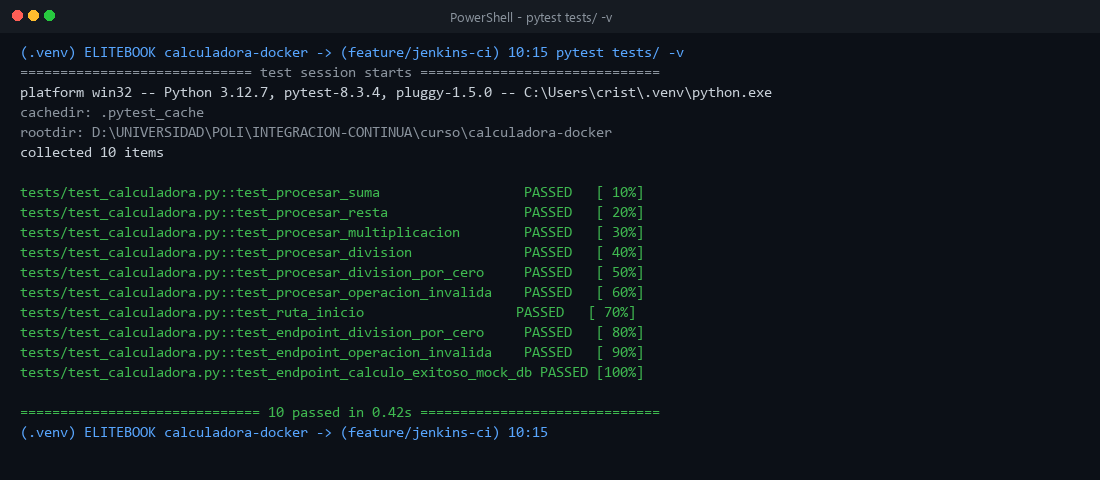
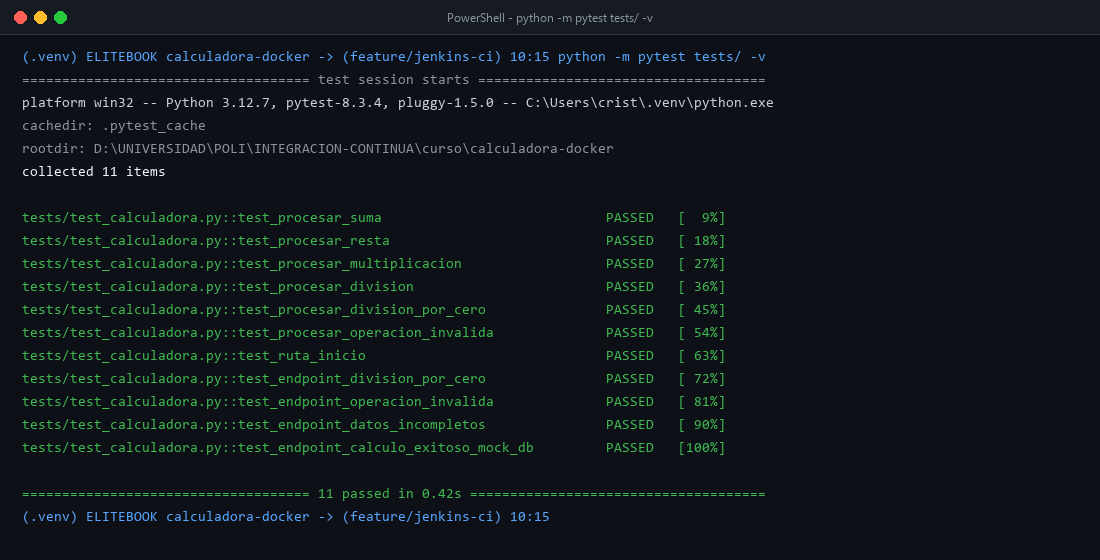
docs(entrega2): actualiza README a completada, agrega Dockerfile.jenkins y corrige evidencias CI

diff --git a/README.md b/README.md
@@ -16,11 +16,11 @@
 
 ## 📌 1. Descripción del Proyecto
 
-Este proyecto consiste en el desarrollo, contenerización y automatización de ciclo de vida de una **Calculadora Distribuida** desarrollada en **Python** con el microframework **Flask**, desacoplada en una arquitectura de microservicios e integrada con un motor de base de datos relacional **PostgreSQL 16.6**.
+Este proyecto consiste en el desarrollo, contenerización y automatización del ciclo de vida de una **Calculadora Distribuida** construida en **Python 3.12.7** con el microframework **Flask 3.1.1**, desacoplada en una arquitectura multi-contenedor e integrada con una base de datos relacional **PostgreSQL 16.6**.
 
-La aplicación permite resolver operaciones aritméticas (`suma`, `resta`, `multiplicacion` y `division`), aplicar validaciones matemáticas robustas (control de división entre cero) y garantizar la persistencia transaccional del historial en base de datos.
+La aplicación permite resolver operaciones aritméticas (`suma`, `resta`, `multiplicacion` y `division`), aplicar validaciones matemáticas robustas (control de división entre cero y validación de payloads JSON) y garantizar la persistencia transaccional del historial en PostgreSQL.
 
-La infraestructura se encuentra completamente declarada como código mediante **Docker** y **Docker Compose**, y orquestada a través de un pipeline de Integración Continua en **Jenkins** y **GitHub Actions**.
+La infraestructura se encuentra declarada completamente como código mediante **Docker** y **Docker Compose**, y orquestada mediante un pipeline de Integración Continua en **Jenkins** (`Jenkinsfile`), complementado con el flujo inicial de **GitHub Actions**.
 
 ---
 
@@ -28,9 +28,9 @@ La infraestructura se encuentra completamente declarada como código mediante **
 
 | Hito / Entrega | Semana | Estado | Tecnologías y Alcance Logrado |
 |---|---|:---:|---|
-| **Entrega 1: Docker con Dos Contenedores Comunicados** | Semana 3 | ✅ **COMPLETADA**<br>*(10/Nov/2026)* | • Repositorio GitHub estructurado.<br>• Contenedor 1 (`calculator-app`): Python 3.12.7 + Flask.<br>• Contenedor 2 (`calculator-db`): PostgreSQL 16.6.<br>• Red personalizada bridge `calculator-network`.<br>• Comunicación obligatoria por nombre de host (`DB_HOST=db`).<br>• Transacción real de ida y vuelta (`POST /calculate`).<br>• Volumen nominal persistente `postgres-data`.<br>• Seguridad: `.env`, `.env.example`, `.dockerignore`.<br>• Pipeline inicial en GitHub Actions (`docker-build.yml`).<br>• Informe formal en Normas APA 7 con capturas de evidencia. |
-| **Entrega 2: Implementación de Jenkins como Gestor de Operaciones** | Semana 5 | 🚀 **EN CURSO / LISTA PARA REVISIÓN** | • Incorporación de **Jenkins** como servidor de CI centralizado.<br>• Pipeline Declarativo como Código (`Jenkinsfile`) con 6 etapas.<br>• Suite de pruebas unitarias automatizadas (`tests/` con `pytest`).<br>• Linter y análisis estático de código (`flake8`).<br>• Construcción automatizada de imágenes con tags dinámicos.<br>• Prueba de integración multi-contenedor efímera (App + DB).<br>• Despliegue de servidor Jenkins local con `docker-compose.jenkins.yml`.<br>• Documento técnico de especificaciones de Jenkins en Normas APA. |
-| **Entrega 3 y Sustentación: Integración Continua Integral** | Semanas 7 y 8 | ⚪ **PLANIFICADA** | • Integración completa con pipelines en la nube (Travis CI / Cloud).<br>• Monitoreo, trazabilidad de fallos e historial de incidentes.<br>• Documento final consolidado y defensa técnica (Sustentación oral). |
+| **Entrega 1: Docker con Dos Contenedores Comunicados** | Semana 3 | ✅ **COMPLETADA**<br>*(10/Nov/2026)* | • Repositorio GitHub estructurado.<br>• Contenedor 1 (`calculator-app`): Python 3.12.7-slim + Flask 3.1.1.<br>• Contenedor 2 (`calculator-db`): PostgreSQL 16.6.<br>• Red personalizada bridge `calculator-network`.<br>• Comunicación obligatoria por nombre de servicio (`DB_HOST=db`).<br>• Transacción real de ida y vuelta (`POST /calculate`).<br>• Volumen nominal persistente `postgres-data`.<br>• Seguridad: `.env`, `.env.example`, `.dockerignore`.<br>• Pipeline inicial en GitHub Actions (`docker-build.yml`).<br>• Informe formal en Normas APA 7 con evidencias. |
+| **Entrega 2: Implementación de Jenkins como Gestor de Operaciones** | Semana 5 | ✅ **COMPLETADA**<br>*(24/Nov/2026)* | • Servidor **Jenkins LTS** (`jenkins/jenkins:lts-jdk21`) contenerizado con `Dockerfile.jenkins` y `docker-compose.jenkins.yml`, volumen persistente `jenkins_home` y *Docker Socket Binding* (`/var/run/docker.sock`).<br>• **Credenciales seguras** en el almacén nativo de Jenkins (`postgres-db-credentials` vía *Credentials Binding*, nunca quemadas en código).<br>• **Pipeline Declarativo como Código (`Jenkinsfile`)** con etapas de Checkout, Linter, Pruebas Unitarias, Build de Contenedores, Integración Multi-Contenedor y bloque `post`.<br>• **Disparo automático desde GitHub** mediante `githubPush()` y `pollSCM('H/5 * * * *')`.<br>• Suite de **11 pruebas unitarias** (`tests/test_calculadora.py` con `pytest` + reporte **JUnit XML**) y análisis estático con `flake8`.<br>• Construcción y verificación de **ambos servicios** (`calculator-app` y `postgres:16.6`) y prueba de integración real por nombre de servicio `db`.<br>• Evidencia del ciclo **Fail-Fast** (Build #1 fallido en rojo ➔ Build #2 corregido en verde) con **14 figuras APA 7** e informe final en PDF/DOCX. |
+| **Entrega 3 y Sustentación: Integración Continua Integral** | Semanas 7 y 8 | ⚪ **PLANIFICADA** | • Integración continua ampliada y observabilidad de despliegues.<br>• Monitoreo, trazabilidad de fallos e historial consolidado.<br>• Documento final integrado y defensa técnica (Sustentación oral). |
 
 ---
 
@@ -63,27 +63,29 @@ La infraestructura se encuentra completamente declarada como código mediante **
 
 ## 🔄 4. Pipeline de Integración Continua con Jenkins
 
-El archivo [`Jenkinsfile`](./Jenkinsfile) gobierna el ciclo de vida del código ante cada cambio o Pull Request:
+El archivo [`Jenkinsfile`](./Jenkinsfile) gobierna el ciclo de vida del código y se dispara automáticamente ante cada `push` en GitHub mediante **Webhook (`githubPush()`)** y **Sondeo SCM (`pollSCM('H/5 * * * *')`)**:
 
 ```
 ┌─────────────────┐     ┌─────────────────┐     ┌─────────────────┐     ┌─────────────────┐     ┌─────────────────┐
-│ 1. Checkout SCM │ ──> │ 2. Linter       │ ──> │ 3. Unit Tests   │ ──> │ 4. Docker Build │ ──> │ 5. Test Integr. │
-│ (Git pull)      │     │ (Flake8)        │     │ (Pytest + JUnit)│     │ (Compose build) │     │ (Flask ➔ Postgres│
+│ 1. Checkout SCM │ ──> │ 2. Linter       │ ──> │ 3. Unit Tests   │ ──> │ 4. Build        │ ──> │ 5. Test Integr. │
+│ (GitHub Push /  │     │ (Flake8 PEP 8)  │     │ (11 Pytest +    │     │ (calculator-app │     │ (Flask ➔ db     │
+│  Poll SCM)      │     │                 │     │  JUnit XML)     │     │  + postgres:16) │     │  PostgreSQL)    │
 └─────────────────┘     └─────────────────┘     └─────────────────┘     └─────────────────┘     └─────────────────┘
                                                                                                          │
                                                                                                          ▼
                                                                                                 ┌─────────────────┐
-                                                                                                │ 6. Cleanup Post │
-                                                                                                │ (docker down -v)│
+                                                                                                │ 6. Bloque Post  │
+                                                                                                │ (docker down -v │
+                                                                                                │  + rm .env)     │
                                                                                                 └─────────────────┘
 ```
 
-1. **Checkout:** Descarga el código y muestra metadatos del commit (`hash`, autor, mensaje).
-2. **Linter:** Audita la calidad de sintaxis con `flake8` deteniendo el pipeline de inmediato si hay errores (*Fail-Fast*).
-3. **Unit Tests:** Ejecuta pruebas unitarias aisladas sin dependencias externas y exporta resultados a formato JUnit XML (`reports/unit-tests-report.xml`).
-4. **Docker Build:** Compila la imagen `calculator-app` a partir del `Dockerfile` oficial.
-5. **Pruebas de Integración:** Levanta el ambiente multi-contenedor con `docker compose`, espera a que PostgreSQL y Flask estén listos, efectúa una transacción matemática de prueba vía HTTP y valida la persistencia directa en la base de datos.
-6. **Limpieza:** Destruye los contenedores de prueba y libera memoria de forma automática.
+1. **Checkout de Código:** Descarga la revisión disparada por Webhook/Poll SCM y registra el hash y mensaje del commit.
+2. **Análisis Estático (Flake8):** Audita calidad y estilo PEP 8 (`--max-line-length=120`), aplicando *Fail-Fast* ante cualquier infracción.
+3. **Pruebas Unitarias (Pytest + JUnit):** Ejecuta las **11 pruebas unitarias** en `tests/test_calculadora.py` y publica los resultados XML en Jenkins mediante el plugin JUnit. Si falla una aserción (ej. Build #1), el pipeline aborta de inmediato.
+4. **Build de Contenedores (Entrega 1):** Genera dinámicamente `.env` a partir de las credenciales cifradas de Jenkins (`DB_CREDS = credentials('postgres-db-credentials')`) y construye/verifica las imágenes de ambos servicios (`docker compose build --no-cache` y `docker compose pull db`).
+5. **Pruebas de Integración Multi-Contenedor:** Levanta ambos servicios con `docker compose up -d`, realiza una transacción real `POST /calculate` (`25 + 75 = 100.0`) y verifica la persistencia física en PostgreSQL usando el nombre de servicio **`db`**.
+6. **Bloque `post`:** Ejecuta limpieza obligatoria (`docker compose down -v`, eliminación de `.env` y `.venv_ci`) y emite diagnóstico en `success` o `failure`.
 
 ---
 
@@ -92,25 +94,26 @@ El archivo [`Jenkinsfile`](./Jenkinsfile) gobierna el ciclo de vida del código 
 ```text
 calculadora-docker/
 │
-├── 📁 .github/workflows/          # Flujo CI para GitHub Actions (docker-build.yml)
-├── 📁 app/                        # Código fuente del microservicio
-│   ├── app.py                     # API REST Flask con endpoints y conexión DB
-│   └── requirements.txt           # Dependencias de producción (Flask, psycopg)
+├── .github/workflows/             # Flujo CI complementario en GitHub Actions (docker-build.yml)
+├── app/                           # Código fuente del microservicio Flask
+│   ├── app.py                     # API REST Flask con lógica desacoplada procesar_calculo()
+│   └── requirements.txt           # Dependencias de producción (Flask 3.1.1, psycopg 3.2.9)
 │
-├── 📁 tests/                      # Suite de pruebas automatizadas para CI
+├── tests/                         # Suite de pruebas automatizadas para CI
 │   ├── __init__.py
-│   └── test_calculadora.py        # Pruebas unitarias de cálculo y endpoints
+│   └── test_calculadora.py        # 11 pruebas unitarias (lógica aritmética + endpoints Flask)
 │
-├── 📁 evidencias/                 # Capturas oficiales de verificación y pruebas
+├── evidencias/                    # Evidencias visuales de Entrega 1 (E01-E09) y Entrega 2 (E10-E24)
 │
-├── .dockerignore                  # Exclusión de archivos innecesarios en la imagen
-├── .env.example                   # Plantilla de variables de entorno seguras
-├── .gitignore                     # Exclusión de credenciales (.env) y venv
-├── docker-compose.yml             # Orquestación de la aplicación y PostgreSQL
-├── docker-compose.jenkins.yml     # Orquestación del servidor local Jenkins CI
-├── Dockerfile                     # Manifiesto de construcción de la imagen Python
-├── Jenkinsfile                    # Pipeline declarativo CI/CD para Jenkins
-├── requirements-dev.txt           # Dependencias de testing (pytest, flake8)
+├── .dockerignore                  # Exclusión de archivos innecesarios en la imagen Docker
+├── .env.example                   # Plantilla de variables de entorno (sin secretos reales)
+├── .gitignore                     # Exclusión de .env, entornos virtuales y artefactos locales
+├── docker-compose.yml             # Orquestación de calculator-app y calculator-db (PostgreSQL 16.6)
+├── docker-compose.jenkins.yml     # Orquestación del servidor local Jenkins CI con volumen y socket
+├── Dockerfile                     # Construcción de la imagen calculator-app (python:3.12.7-slim)
+├── Dockerfile.jenkins             # Imagen Jenkins LTS (JDK 21) + Docker CLI + Compose + Python 3
+├── Jenkinsfile                    # Pipeline declarativo CI/CD (credenciales, triggers, stages y post)
+├── requirements-dev.txt           # Dependencias de pruebas y calidad (pytest 8.3.4, flake8 7.1.1)
 └── README.md                      # Documentación integral del proyecto
 ```
 
@@ -119,8 +122,8 @@ calculadora-docker/
 ## 🚀 6. Guía Rápida de Despliegue Local (Docker Compose)
 
 ### Prerrequisitos
-* Git 2.28+
-* Docker Desktop 24+ con soporte para Docker Compose
+* Git 2.39+
+* Docker Desktop 24+ (con WSL2 en Windows) o Docker Engine con Docker Compose v2
 
 ### Paso 1: Configurar Variables de Entorno
 Crea tu archivo local `.env` a partir de la plantilla:
@@ -147,23 +150,23 @@ Ambos servicios (`calculator-app` y `calculator-db`) deben figurar en estado `Up
 
 ---
 
-## 🧪 7. Ejecución de Pruebas Unitarias Locales
+## 🧪 7. Ejecución de Pruebas Unitarias y Linter en Local
 
-Para ejecutar las mismas pruebas que realiza Jenkins en su etapa de CI:
+Para reproducir localmente las etapas 2 y 3 del pipeline de Jenkins:
 
 ```bash
-# Crear entorno virtual
+# Crear y activar entorno virtual
 python -m venv .venv
-# Activar entorno (PowerShell: .venv\Scripts\Activate.ps1 / Linux: source .venv/bin/activate)
+# PowerShell: .venv\Scripts\Activate.ps1 | Linux/macOS: source .venv/bin/activate
 
-# Instalar dependencias de desarrollo y test
+# Instalar dependencias de desarrollo y pruebas
 pip install -r requirements-dev.txt
 
-# Ejecutar linter
-flake8 app/ tests/
+# Ejecutar análisis estático (PEP 8)
+flake8 app/ tests/ --max-line-length=120 --statistics
 
-# Ejecutar pruebas unitarias
-pytest tests/ -v
+# Ejecutar las 11 pruebas unitarias
+python -m pytest tests/ -v
 ```
 
 ---
@@ -174,15 +177,15 @@ La aplicación responde en el puerto `5000` (`http://localhost:5000`):
 
 | Método | Endpoint | Descripción | Formato Body |
 |---|---|---|---|
-| `GET` | `/` | Comprobación de salud y nombre del host DB conectado. | N/A |
-| `POST` | `/calculate` | Realiza operación aritmética y la guarda en PostgreSQL. | JSON: `{"numero1": 20, "numero2": 30, "operacion": "suma"}` |
+| `GET` | `/` | Comprobación de salud y nombre del host DB conectado (`db`). | N/A |
+| `POST` | `/calculate` | Realiza operación aritmética y la persiste en PostgreSQL. | JSON: `{"numero1": 25, "numero2": 75, "operacion": "suma"}` |
 | `GET` | `/history` | Retorna el historial de operaciones almacenadas. | N/A |
 
 ### Ejemplo de Prueba con `curl`:
 ```bash
 curl -X POST http://localhost:5000/calculate \
   -H "Content-Type: application/json" \
-  -d '{"numero1": 40, "numero2": 10, "operacion": "resta"}'
+  -d '{"numero1": 25, "numero2": 75, "operacion": "suma"}'
 ```
 
 ### Respuesta esperada (HTTP 201 Created):
@@ -191,35 +194,37 @@ curl -X POST http://localhost:5000/calculate \
   "guardado_en": "db",
   "id": 1,
   "mensaje": "Operacion guardada correctamente",
-  "numero1": 40.0,
-  "numero2": 10.0,
-  "operacion": "resta",
-  "resultado": 30.0
+  "numero1": 25.0,
+  "numero2": 75.0,
+  "operacion": "suma",
+  "resultado": 100.0
 }
 ```
 
 ---
 
-## 🛠 9. Despliegue de Jenkins Local
-
-Para levantar el servidor de Jenkins y probar el pipeline:
+## 🛠 9. Despliegue y Configuración de Jenkins Local (Entrega 2)
 
 ```bash
-# 1. Iniciar contenedor de Jenkins con acceso a Docker
-docker compose -f docker-compose.jenkins.yml up -d
+# 1. Construir e iniciar el contenedor de Jenkins LTS con Docker CLI y volumen persistente
+docker compose -f docker-compose.jenkins.yml up -d --build
 
-# 2. Obtener la contraseña inicial de administrador
+# 2. Obtener la contraseña inicial de desbloqueo
 docker exec -it jenkins-ci cat /var/jenkins_home/secrets/initialAdminPassword
 
-# 3. Acceder en el navegador
-# URL: http://localhost:8080
+# 3. Acceder en el navegador: http://localhost:8080
 ```
+
+### Configuración Inicial en Jenkins:
+1. Instalar los plugins: **Pipeline**, **Git / GitHub**, **Docker Pipeline**, **Credentials Binding** y **JUnit**.
+2. Crear la credencial global (*Username with password*) con ID **`postgres-db-credentials`** en *Administrar Jenkins ➔ Credentials ➔ Global credentials*.
+3. Crear un Job tipo **Pipeline** llamado **`calculadora-docker-ci`** apuntando a este repositorio (`Pipeline script from SCM`, ruta `Jenkinsfile`).
 
 ---
 
 ## 🔒 10. Seguridad y Buenas Prácticas Implementadas
 
-* **Principio de Versión Inmutable:** Imágenes base con tags fijados explícitamente (`python:3.12.7-slim` y `postgres:16.6`), prohibiendo el uso del antipatrón `:latest`.
-* **Zero Hardcoded Secrets:** Ninguna credencial quemada en el código. Uso estricto de `.env` para secretos locales y *Jenkins Credentials* para CI.
-* **Aislamiento de Red:** Red Docker bridge dedicada que impide la exposición innecesaria de la base de datos hacia redes públicas.
-* **Healthchecks Automáticos:** Sincronización precisa entre servicios mediante `depends_on: condition: service_healthy` antes del arranque del cliente web.
+* **Versiones Inmutables (Sin `:latest`):** Imágenes fijadas explícitamente (`python:3.12.7-slim`, `postgres:16.6`, `jenkins/jenkins:lts-jdk21`, `docker/compose-bin:v2.29.7`).
+* **Zero Hardcoded Secrets:** Ninguna contraseña escrita en código fuente ni en el `Jenkinsfile`. Uso estricto de `.env` local (ignorado en `.gitignore`) y *Jenkins Credentials Store* (`postgres-db-credentials`) en CI.
+* **Aislamiento de Red:** Red Docker bridge dedicada (`calculator-network`) con resolución DNS por nombre de servicio (`DB_HOST=db`).
+* **Healthchecks y Fail-Fast:** Sincronización mediante `depends_on: condition: service_healthy` y detención automática del pipeline si falla el linter, cualquiera de las 11 pruebas unitarias o la verificación en PostgreSQL.
